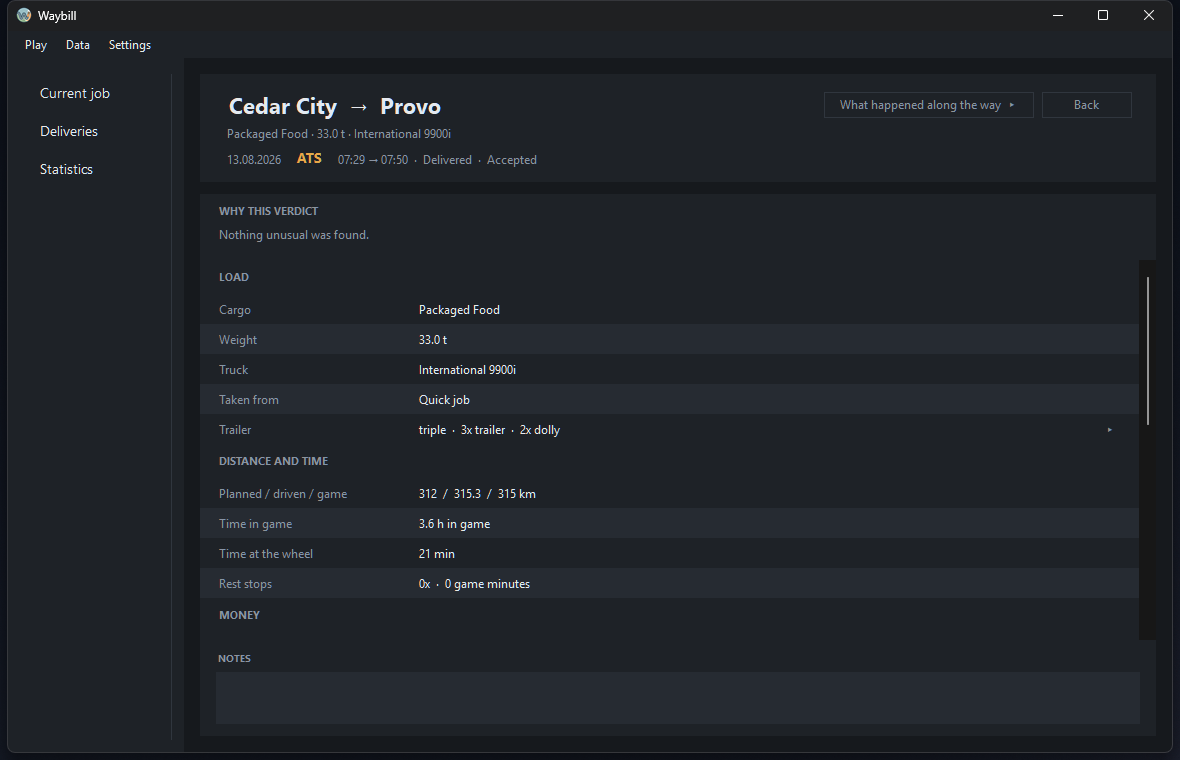
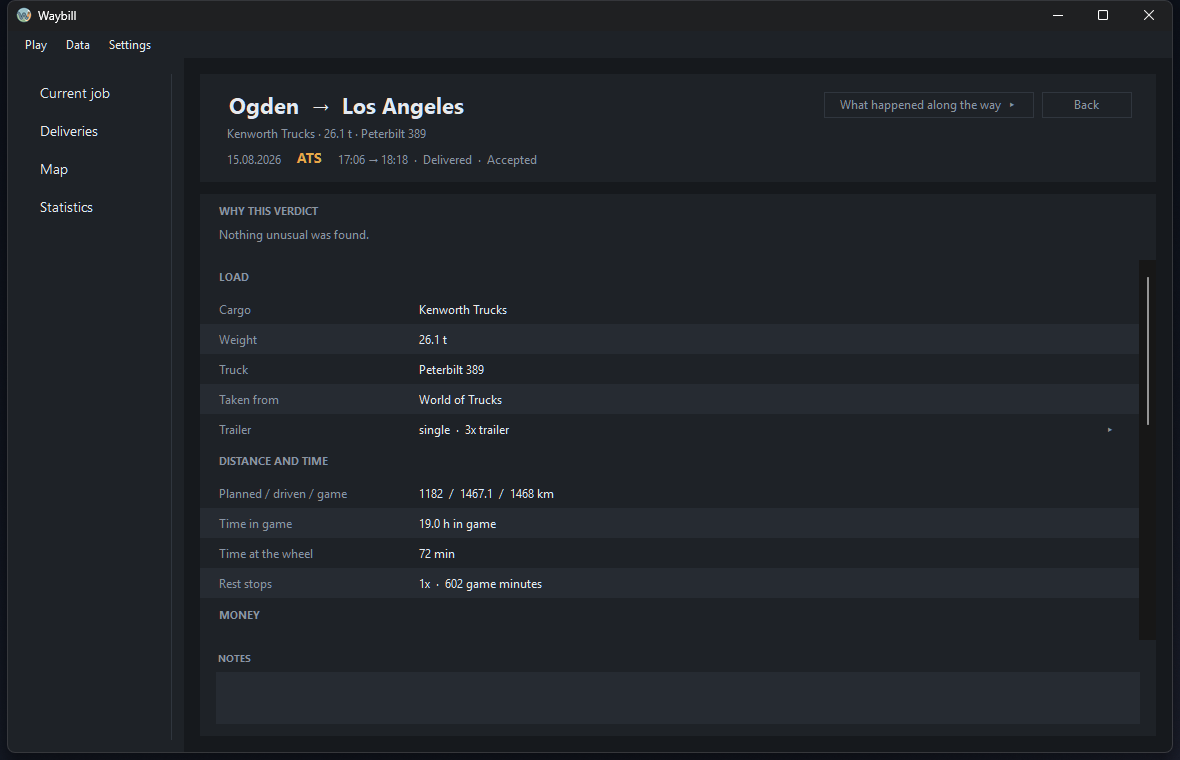
Write the map into the documentation
The README gains a section on the map, and most of it is about why there is no
real one underneath. That is the part worth writing down: the game's world is not
a scaled country, some pairs of cities sit thirteen times closer than reality and
others thirty, so no projection fits and the closest leaves cities about thirty
kilometres out. Anyone reading the code later would otherwise reasonably assume
the backdrop was simply never got round to.

The roadmap now says Phase 3 is mostly done rather than not started, and records
the licence findings behind that: the fullest map projects are GPL 3.0 and would
take Waybill's MIT with them, while ts-map is MIT and reads the player's own
installed game instead of shipping extracted data, which is the shape to use if
city positions ever come from the game rather than from the driver's own jobs.

The reference gains `trailer_coupled`, which is the event the map anchors a city
to.

Screenshots are retaken, since the sidebar has a fourth entry now and the
delivery card opens onto a route. `delivery-timeline.png` is replaced by
`delivery-route.png`, because that panel now holds both and the old name had
stopped being true. `map.png` is new. There is no shot of the map at full screen:
it fills whatever monitor it opens on, so it would be the only picture here that
is not the same size as the others, and it shows the same map with more room.

diff --git a/README.md b/README.md
@@ -75,7 +75,8 @@ Every state, flag and anomaly is listed with its meaning in
 * Keeps every unit of a double or a triple, each with the damage it took
 * Says which market a job came from, and whether the trailer was your own
 * Explains every verdict in words rather than leaving a label on the row
-* Stores route coordinates for a map view later on
+* Draws where each delivery went, with every fine and collision marked on it
+* Draws the whole history as one map, built entirely from your own drives
 * Resumes an interrupted job after a crash or after quitting mid drive
 * Launches the game from the window, including a telemetry plugin check
 * Shows the current delivery on Discord, over the local pipe, with no account
@@ -121,7 +122,7 @@ live in `%LOCALAPPDATA%\Waybill\`, independent of where the exe sits.
 Start order does not matter, the app connects to the game as soon as it finds it.
 Jobs are detected and saved without any input.
 
-Three pages down the left. *Deliveries* is the history, with search, a filter and
+Four pages down the left. *Deliveries* is the history, with search, a filter and
 the verdict on each drive.
 
 *Current job* is what the engine sees right now: the route, the cargo, how far
@@ -133,11 +134,11 @@ with why it got the verdict it did, then every figure the tracker kept.
 
 ![A delivery on its own card](assets/delivery-card.png)
 
-*What happened along the way* slides the timeline out from the right. It is worth
-reading when something went wrong and worth nothing when nothing did, so it stays
-out of the way until asked for.
+*What happened along the way* slides a column out from the right: the route on
+top, the timeline underneath it. Both are worth reading when something went wrong
+and worth nothing when nothing did, so they stay out of the way until asked for.
 
-![The timeline slid out](assets/delivery-timeline.png)
+![The route and the timeline](assets/delivery-route.png)
 
 *Statistics* is the whole logbook at a glance, on one screen with no scrolling.
 
@@ -164,6 +165,59 @@ Splitting the set apart is not only bookkeeping. On one triple the leading unit
 took fifteen times the body damage of the others while the wheels wore evenly
 across all three, which is the difference between clipping something and simply
 driving a long way. One figure for the set hides that entirely.
+
+## The map
+
+Position has been recorded once a second since the first delivery, so every drive
+already had a shape long before anything drew one.
+
+A delivery's card shows its own route, coloured by speed, over every other route
+the profile has driven. Fines, collisions, refuels, rests and the moment the
+trailer was hitched are marked on it, each tied to the position the truck was in
+when it happened. The *Map* page shows the same thing without a delivery singled
+out: every drive of one game at once, where pointing at a route names it and
+clicking one opens its card. It is a second way into the history, since the list
+answers when something was driven and this answers where.
+
+![The map of everywhere driven](assets/map.png)
+
+Wheel zooms, dragging moves, double clicking fits. Three buttons sit over the top
+right: what to draw, fit the view, and full screen.
+
+### There is no real map underneath, on purpose
+
+The game's world is not a scaled United States. Measured across nineteen
+deliveries, some pairs of cities sit thirteen times closer than reality and others
+thirty, which is a difference of more than twice within the same map. SCS did not
+shrink a country; they laid out a road network that plays well and put the cities
+where that worked.
+
+So no projection fits. Fitting the closest one anyway leaves cities about thirty
+kilometres out under cross validation, and neither a quadratic fit nor a spline
+through the cities as control points does better. Thirty kilometres is roughly
+twenty minutes of driving: a state border drawn that far off would put the truck
+in the wrong state, which is exactly the sort of small lie this project tries not
+to tell.
+
+What is drawn instead comes entirely from the driver's own data, where every
+position is exactly where the game put it:
+
+* **The routes already driven** are the background. They are the one backdrop that
+  cannot be wrong, and the picture fills in as more gets driven.
+* **Cities are learned** from the jobs themselves. Each names the city it loaded
+  in and the one it unloaded in, and the recording says where the truck was. A dot
+  is really the middle of the depots used there, so a city seen once is one depot
+  wearing the city's name.
+
+Nothing on the map ever reports a distance, and it never will. The length of a
+line on it is not kilometres; the odometer answers that.
+
+### What is not drawn as driving
+
+Two stretches are deliberately shown as a dashed break rather than a line. The
+first point of a job is where the driver stood when the offer was accepted, which
+on a quick job is another city entirely, and a ferry, a train or loading an
+earlier save moves the truck mid drive. None of them were driven along.
 
 ## Discord
 
@@ -283,6 +337,7 @@ src/Waybill/
 ├── Integrations/   Discord Rich Presence over the local pipe
 ├── SCSSdkClient/   vendored C# SDK client (MIT, with local fixes)
 ├── GameLauncher.cs finding and launching the games through Steam
+├── RouteView.cs    drawing routes, cities and event pins
 ├── MainForm.cs     the window
 └── Program.cs      CLI and entry point
 assets/             logo and icon source
@@ -295,12 +350,12 @@ archive/            retired, no longer used
 
 Working: automatic tracking and saving, launching the game from the app, resume
 after a restart, history with search and notes, statistics, event timeline,
-per unit damage across a coupled set, Discord Rich Presence, TrucksBook import,
-export and backups.
+per unit damage across a coupled set, the route map with event pins and the map
+of the whole history, Discord Rich Presence, TrucksBook import, export and
+backups.
 
-Missing: the map and route replay, although the coordinates are already being
-collected, plus achievements and whole session statistics. Details in
-[`docs/roadmap.md`](docs/roadmap.md).
+Missing: replaying a drive along its route, an elevation profile, achievements
+and whole session statistics. Details in [`docs/roadmap.md`](docs/roadmap.md).
 
 ## Licence
 

diff --git a/docs/roadmap.md b/docs/roadmap.md
@@ -317,9 +317,18 @@ Add comparison dashboards:
 - Replay
 - Filters
 
-Licensing note: existing map projects such as TruckNav-Sim are GPL 3.0, which
-would force GPL on all of Waybill. Waybill is MIT, so map rendering has to be
-written from scratch rather than adapted.
+Licensing note: the fullest map projects are GPL 3.0, including TruckNav-Sim and
+truckermudgeon/maps, which would force GPL on all of Waybill. Waybill is MIT, so
+route drawing was written from scratch instead.
+
+For city positions there is one permissive option worth knowing about:
+dariowouters/ts-map is MIT, is written in C#, and reads the player's own installed
+game rather than shipping extracted data. That is the right shape for this
+project, since the result then matches the player's own DLC and nothing derived
+from SCS's files ends up in this repository. Two older sources are not usable:
+thezir.com is from 2017 with all rights reserved, and Koenvh1's premade files are
+MIT but their ATS data stops at game version 1.5, covering California and Nevada
+only.
 
 ## Phase 4 — Cloud sync
 
@@ -348,6 +357,8 @@ rather than only tested.
 
 - Every verdict explained in words on the delivery's own card, rather than a label
 - Per unit damage across doubles and triples, with dollies told apart from trailers
+- The route of each delivery drawn, with its fines and collisions marked on it
+- A map of the whole history, built from the driver's own drives and nothing else
 - Which market a job came from, and whether the trailer was the driver's own
 - Discord Rich Presence, over the local pipe, no account and nothing sent anywhere
 - Export to CSV and JSON, backup and restore, TrucksBook import
@@ -357,14 +368,25 @@ rather than only tested.
 **Phase 2, partly.** Export tools are there. Achievements, session statistics and
 period comparisons are not.
 
-**Phase 3 has not started.** Route coordinates are recorded from day one, so the
-input for the map and the replay is accumulating; nothing draws it yet.
+**Phase 3, mostly.** The map is drawn: a delivery's own route with its events
+marked on it, and a page showing every drive of one game at once, where clicking a
+route opens it. Route replay along the line is not built, and neither is the
+elevation profile, though altitude has been recorded all along.
+
+The map turned out to need a decision this document did not anticipate. The game's
+world is not a scaled country: measured over nineteen deliveries some pairs of
+cities sit thirteen times closer than reality and others thirty, so no projection
+lines it up with real geography, and the closest fit leaves cities about thirty
+kilometres out. Rather than draw borders in the wrong place, the map is built
+entirely from the driver's own data. The routes already driven are the background
+and the cities are learned from the jobs, which means the picture fills in as more
+gets driven. GPX and KML export are still open, and would need that same decision
+faced again, since both formats want real coordinates.
 
 **Phases 4 and 5 have not started**, and should not until the local side is worth
 sharing. The one piece of groundwork that exists is that a delivery now has a
 stable identity, so the same drive can be referred to across machines without
 inventing a server first.
-- Management tools
 
 ---
 

diff --git a/assets/README.md b/assets/README.md
@@ -6,8 +6,9 @@
 | `logo.psd` | Layered source file for editing the logo. |
 | `deliveries.png` | The delivery history, used at the top of the README. |
 | `delivery-card.png` | One delivery on its own card. |
-| `delivery-timeline.png` | The same card with the timeline slid out. |
+| `delivery-route.png` | The same card with the route and timeline slid out. |
 | `trailer-chain.png` | A triple with its units and dollies opened out. |
+| `map.png` | The map page, with one route lit under the pointer. |
 | `statistics.png` | The statistics page. |
 
 Screenshots are taken at 1180x760, which is roughly the window's default size and
@@ -21,6 +22,11 @@ figures in them are ordinary rather than tidy.
 There is no shot of the *Current job* page. It only has anything to show while a
 delivery is actually running, and one taken with the game closed says nothing but
 "waiting for the game", so it is better left out than faked.
+
+There is none of the map at full screen either. It fills whatever monitor it is
+opened on, so the shot would be the size of that monitor rather than the size
+every other picture here is, and it shows the same map as `map.png` with more
+room. The feature is described in the README instead.
 
 The application icon `src/Waybill/waybill.ico` is generated from `logo.png` and
 contains the 16, 32, 48, 64, 128 and 256 px sizes, so Windows can pick whichever

diff --git a/docs/reference.md b/docs/reference.md
@@ -105,6 +105,15 @@ each thing happened.
 | `collision` | Damage step, in percent | |
 | `rest` | Game minutes slept | |
 | `save_loaded` | Game minutes rewound | |
+| `trailer_coupled` | | |
+
+`trailer_coupled` is the moment the load was hitched up, which is not the moment
+the job began. A World of Trucks contract spawns its trailer when the offer is
+accepted and starts counting kilometres from wherever the driver was standing, so
+the job's own starting position can be another city. This is the one instant that
+is the pickup whatever kind of job it is, and it is what the map anchors a city
+to. A job that was already coupled when tracking began, which is how a quick job
+starts, records nothing here.
 
 The offence is stored under the SDK's own name: `Crash`, `Speeding`,
 `Speeding_camera`, `Red_signal`, `Wrong_way`, `No_lights`, `Avoid_sleeping`,
